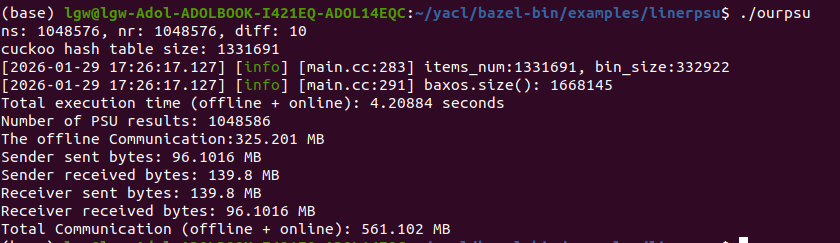
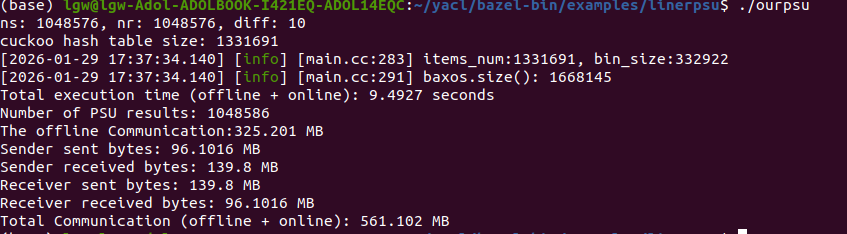
give the update results

Changed region(s): [[0.0, 0.0, 0.9595, 1.0], [0.8357, 0.9573, 0.8976, 1.0], [0.7119, 0.9872, 0.8048, 1.0]]

diff --git a/main.cc b/main.cc
@@ -325,8 +325,8 @@ void RunOurPSU() {
   std::vector<uint128_t> fxs;
   std::vector<uint128_t> fxr;
   // Fakessoprf(pi, k, fxs, fxr);
-  auto ssoprfbytes =  RealSsoprf_AltMod_BenchStyle(pi, k, fxs, fxr);
   auto start_time2 = std::chrono::high_resolution_clock::now();
+  auto ssoprfbytes =  RealSsoprf_AltMod_BenchStyle(pi, k, fxs, fxr);
   std::future<std::vector<__uint128_t>> pssender = std::async(
       std::launch::async, [&] { return ps::PSSend(lctxs[0], pi, fxs); });
 
@@ -341,6 +341,7 @@ void RunOurPSU() {
   total_duration = total_duration + duration2;
   //std::vector<bool> eqs;
   //std::vector<bool> eqr;
+  auto start_time3 = std::chrono::high_resolution_clock::now();
   std::vector<uint64_t> rr1u64;
   std::vector<uint64_t> rr2u64;
   std::vector<uint64_t> rsu64(cuckoolen);
@@ -366,7 +367,6 @@ void RunOurPSU() {
   
   //FakePiPEQT(rr1, rr2, rs, pi, eqs, eqr);
 
-  auto start_time3 = std::chrono::high_resolution_clock::now();
   auto shufflecuckoo = ShuffleWithYacl(T_X, pi);
   std::future<void> eqotesender = std::async(std::launch::async, [&] {
     eqote::EQOTESend(lctxs[0], eqs, shufflecuckoo);

diff --git a/gmw.h b/gmw.h
@@ -456,7 +456,7 @@ static inline std::vector<bool> EqU64Vec2PC_PreRot(const std::shared_ptr<yacl::l
 
 }  
 
-static std::vector<bool> Party(const std::shared_ptr<yacl::link::Context>& ctx,
+static inline std::vector<bool> Party(const std::shared_ptr<yacl::link::Context>& ctx,
                                   const std::vector<uint64_t>& a_vec) {
   return gmw_eq_vec_u64_prerot::EqU64Vec2PC_PreRot(ctx, ctx->Rank(), a_vec, "GMW_EQ_PREROT");
 }
